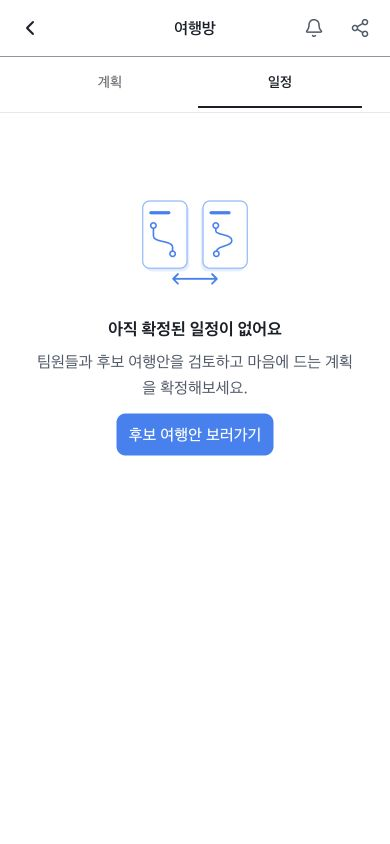
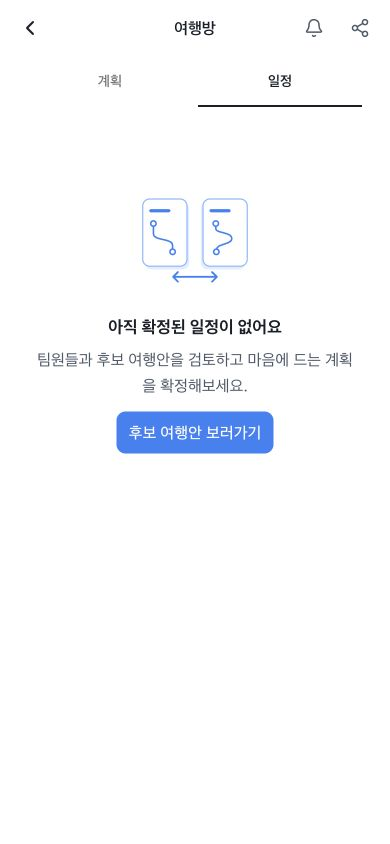
fix(ui): remove decorative shell borders

diff --git a/src/components/galanda/page-chrome.test.tsx b/src/components/galanda/page-chrome.test.tsx
@@ -20,11 +20,10 @@ function countOccurrences(source: string, value: string): number {
 }
 
 describe("Page chrome geometry contracts", () => {
-  it("keeps a sticky header distinguishable and reserves 44px action slots around a 720px inner column", () => {
+  it("keeps a sticky header borderless and reserves 44px action slots around a 720px inner column", () => {
     const { container } = render(
       <PageHeader
         sticky
-        bordered
         title="여행방"
         back={{ onClick: () => undefined }}
         action={
@@ -39,7 +38,7 @@ describe("Page chrome geometry contracts", () => {
     expect(header).toHaveAttribute("data-galanda-surface", "chrome");
     expect(header?.className).toContain("sticky");
     expect(header?.className).toContain("top-0");
-    expect(header?.className).toContain("border-b");
+    expect(header?.className).not.toContain("border-b");
 
     const innerColumn = header?.firstElementChild as HTMLElement;
     expect(indexCss).toMatch(/--content-max-width:\s*720px;/);
@@ -152,7 +151,7 @@ describe("Page chrome geometry contracts", () => {
       paddingBottom: "calc(12px + var(--safe-bottom))",
     });
     expect(actionChrome?.className).toContain("transition-[bottom]");
-    expect(actionChrome?.className).toContain("border-t");
+    expect(actionChrome?.className).not.toContain("border-t");
 
     const innerColumn = actionChrome?.firstElementChild as HTMLElement;
     expect(innerColumn.className).toContain("mx-auto");

diff --git a/src/app/layouts/TripRoomTabLayout.tsx b/src/app/layouts/TripRoomTabLayout.tsx
@@ -129,7 +129,7 @@ export function TripRoomTabLayout() {
   const modeSwitcher = (
     <div
       data-slot="trip-mode-switcher"
-      className="border-b border-border bg-background px-6"
+      className="bg-background px-6"
     >
       <Tabs value={selectedTab} onValueChange={handleTabChange} className="mx-auto max-w-(--content-max-width)">
         <TabsList
@@ -161,7 +161,6 @@ export function TripRoomTabLayout() {
       <div data-slot="trip-navigation" className="sticky top-0 z-20 bg-background">
         {showWebNavigation ? (
           <PageHeader
-            bordered
             safeTop
             title={getTripRoomNavigationTitle(location.pathname)}
             back={{ onClick: () => void goBack() }}
@@ -169,7 +168,6 @@ export function TripRoomTabLayout() {
           />
         ) : (
           <PageHeader
-            bordered
             safeTop={false}
             topInset={platformTopInset}
             className="z-[5]"

diff --git a/src/components/galanda/page-header.tsx b/src/components/galanda/page-header.tsx
@@ -16,7 +16,6 @@ interface PageHeaderProps {
   readonly action?: ReactNode;
   /** 스크롤 시 상단에 고정할지 여부. 내부 고정값이 아니라 화면이 명시적으로 선택해요. */
   readonly sticky?: boolean;
-  readonly bordered?: boolean;
   readonly safeTop?: boolean;
   readonly topInset?: number;
   /** 상위 shell이 chrome을 소유할 때 `none`으로 중복 surface를 막아요. */
@@ -34,7 +33,6 @@ export function PageHeader({
   back,
   action,
   sticky = false,
-  bordered = false,
   safeTop = true,
   topInset,
   surface = "chrome",
@@ -49,7 +47,6 @@ export function PageHeader({
         // 명시적인 native inset이 있으면 Web safe-area를 더하지 않아요.
         safeTop && topInset === undefined && "pt-(--safe-top)",
         sticky && "sticky top-0 z-20",
-        (bordered || sticky) && "border-b",
         className,
       )}
     >

diff --git a/src/features/dev/DevDesignPage.tsx b/src/features/dev/DevDesignPage.tsx
@@ -98,7 +98,6 @@ export function DevDesignPage() {
       <PageHeader
         title="Design Catalog"
         sticky
-        bordered
         action={
           <Button type="button" variant="ghost" size="sm" disabled>
             DEV
@@ -987,7 +986,7 @@ function ShellSection() {
           />
         </div>
         <div className="overflow-hidden rounded-lg border border-border">
-          <PageHeader title="Sticky + bordered" sticky bordered />
+          <PageHeader title="Sticky" sticky />
         </div>
       </DevCard>
       <DevCard title="TripCreationProgress">

diff --git a/src/components/galanda/global-app-shell.tsx b/src/components/galanda/global-app-shell.tsx
@@ -68,7 +68,7 @@ export function GlobalAppShell({ children }: GlobalAppShellProps) {
       <nav
         aria-label="주요 화면"
         data-galanda-surface={usesContentSurface ? "content" : "chrome"}
-        className="fixed inset-x-0 bottom-0 z-20 border-t border-border bg-background pb-[var(--safe-bottom)]"
+        className="fixed inset-x-0 bottom-0 z-20 bg-background pb-[var(--safe-bottom)]"
       >
         <ul className="mx-auto flex h-16 w-full max-w-(--content-max-width) items-stretch">
           {GLOBAL_NAV_ITEMS.map((item) => {

diff --git a/src/components/galanda/bottom-action.tsx b/src/components/galanda/bottom-action.tsx
@@ -72,7 +72,7 @@ export function BottomAction({
         paddingBottom: "calc(12px + var(--safe-bottom))",
       }}
       className={cn(
-        "fixed inset-x-0 z-30 border-t px-5 pt-2 transition-[bottom] duration-[var(--motion-duration-standard)] ease-[var(--motion-ease-standard)] motion-reduce:transition-none",
+        "fixed inset-x-0 z-30 px-5 pt-2 transition-[bottom] duration-[var(--motion-duration-standard)] ease-[var(--motion-ease-standard)] motion-reduce:transition-none",
         className,
       )}
     >

diff --git a/src/components/galanda/global-app-shell.test.tsx b/src/components/galanda/global-app-shell.test.tsx
@@ -146,7 +146,7 @@ describe("GlobalAppShell (RAON-248)", () => {
     expect(nav.className).toContain("inset-x-0");
     expect(nav.className).toContain("bottom-0");
     expect(nav.className).not.toContain("shadow-chrome");
-    expect(nav.className).toContain("border-t");
+    expect(nav.className).not.toContain("border-t");
     expect(nav.className).toContain("pb-[var(--safe-bottom)]");
     expect(nav.className).not.toContain("pointer-events-none");
     const navList = nav.querySelector("ul");

diff --git a/src/app/layouts/TripRoomTabLayout.test.tsx b/src/app/layouts/TripRoomTabLayout.test.tsx
@@ -134,7 +134,7 @@ describe("TripRoomTabLayout platform shell ownership (RAON-229)", () => {
     const navigation = container.querySelector('[data-slot="trip-navigation"]');
     expect(navigation).toHaveClass("sticky", "top-0");
     expect(navigation).toContainElement(header);
-    expect(header.className).toContain("border-b");
+    expect(header.className).not.toContain("border-b");
     expect(
       within(header).getByRole("button", { name: "뒤로 가기" }),
     ).toBeInTheDocument();

diff --git a/src/app/layouts/TripRoomChildLayout.tsx b/src/app/layouts/TripRoomChildLayout.tsx
@@ -35,7 +35,6 @@ export function TripRoomChildLayout() {
       {!platformNavigation && (
         <PageHeader
           sticky
-          bordered
           safeTop
           title={getTripRoomNavigationTitle(location.pathname)}
           back={{ onClick: () => void goBack() }}

diff --git a/src/features/trip-create/TripCreatePage.tsx b/src/features/trip-create/TripCreatePage.tsx
@@ -97,7 +97,6 @@ export function TripCreatePage() {
       {!platformNavigation && (
         <PageHeader
           sticky
-          bordered
           title="여행 만들기"
           back={{ label: "뒤로 가기", onClick: () => void goBack() }}
         />

diff --git a/src/features/trip-setup/TripCompanionSetupPage.tsx b/src/features/trip-setup/TripCompanionSetupPage.tsx
@@ -114,7 +114,6 @@ export function TripCompanionSetupPage() {
       {!platformNavigation && (
         <PageHeader
           sticky
-          bordered
           title="여행 만들기"
           back={{
             label: "뒤로 가기",

diff --git a/src/features/explore/ExploreListingDetailPage.tsx b/src/features/explore/ExploreListingDetailPage.tsx
@@ -71,7 +71,6 @@ export function ExploreListingDetailPage() {
   const header = platformNavigation ? null : (
     <PageHeader
       sticky
-      bordered
       safeTop
       title="여행 일정"
       back={{ onClick: handleBack }}
